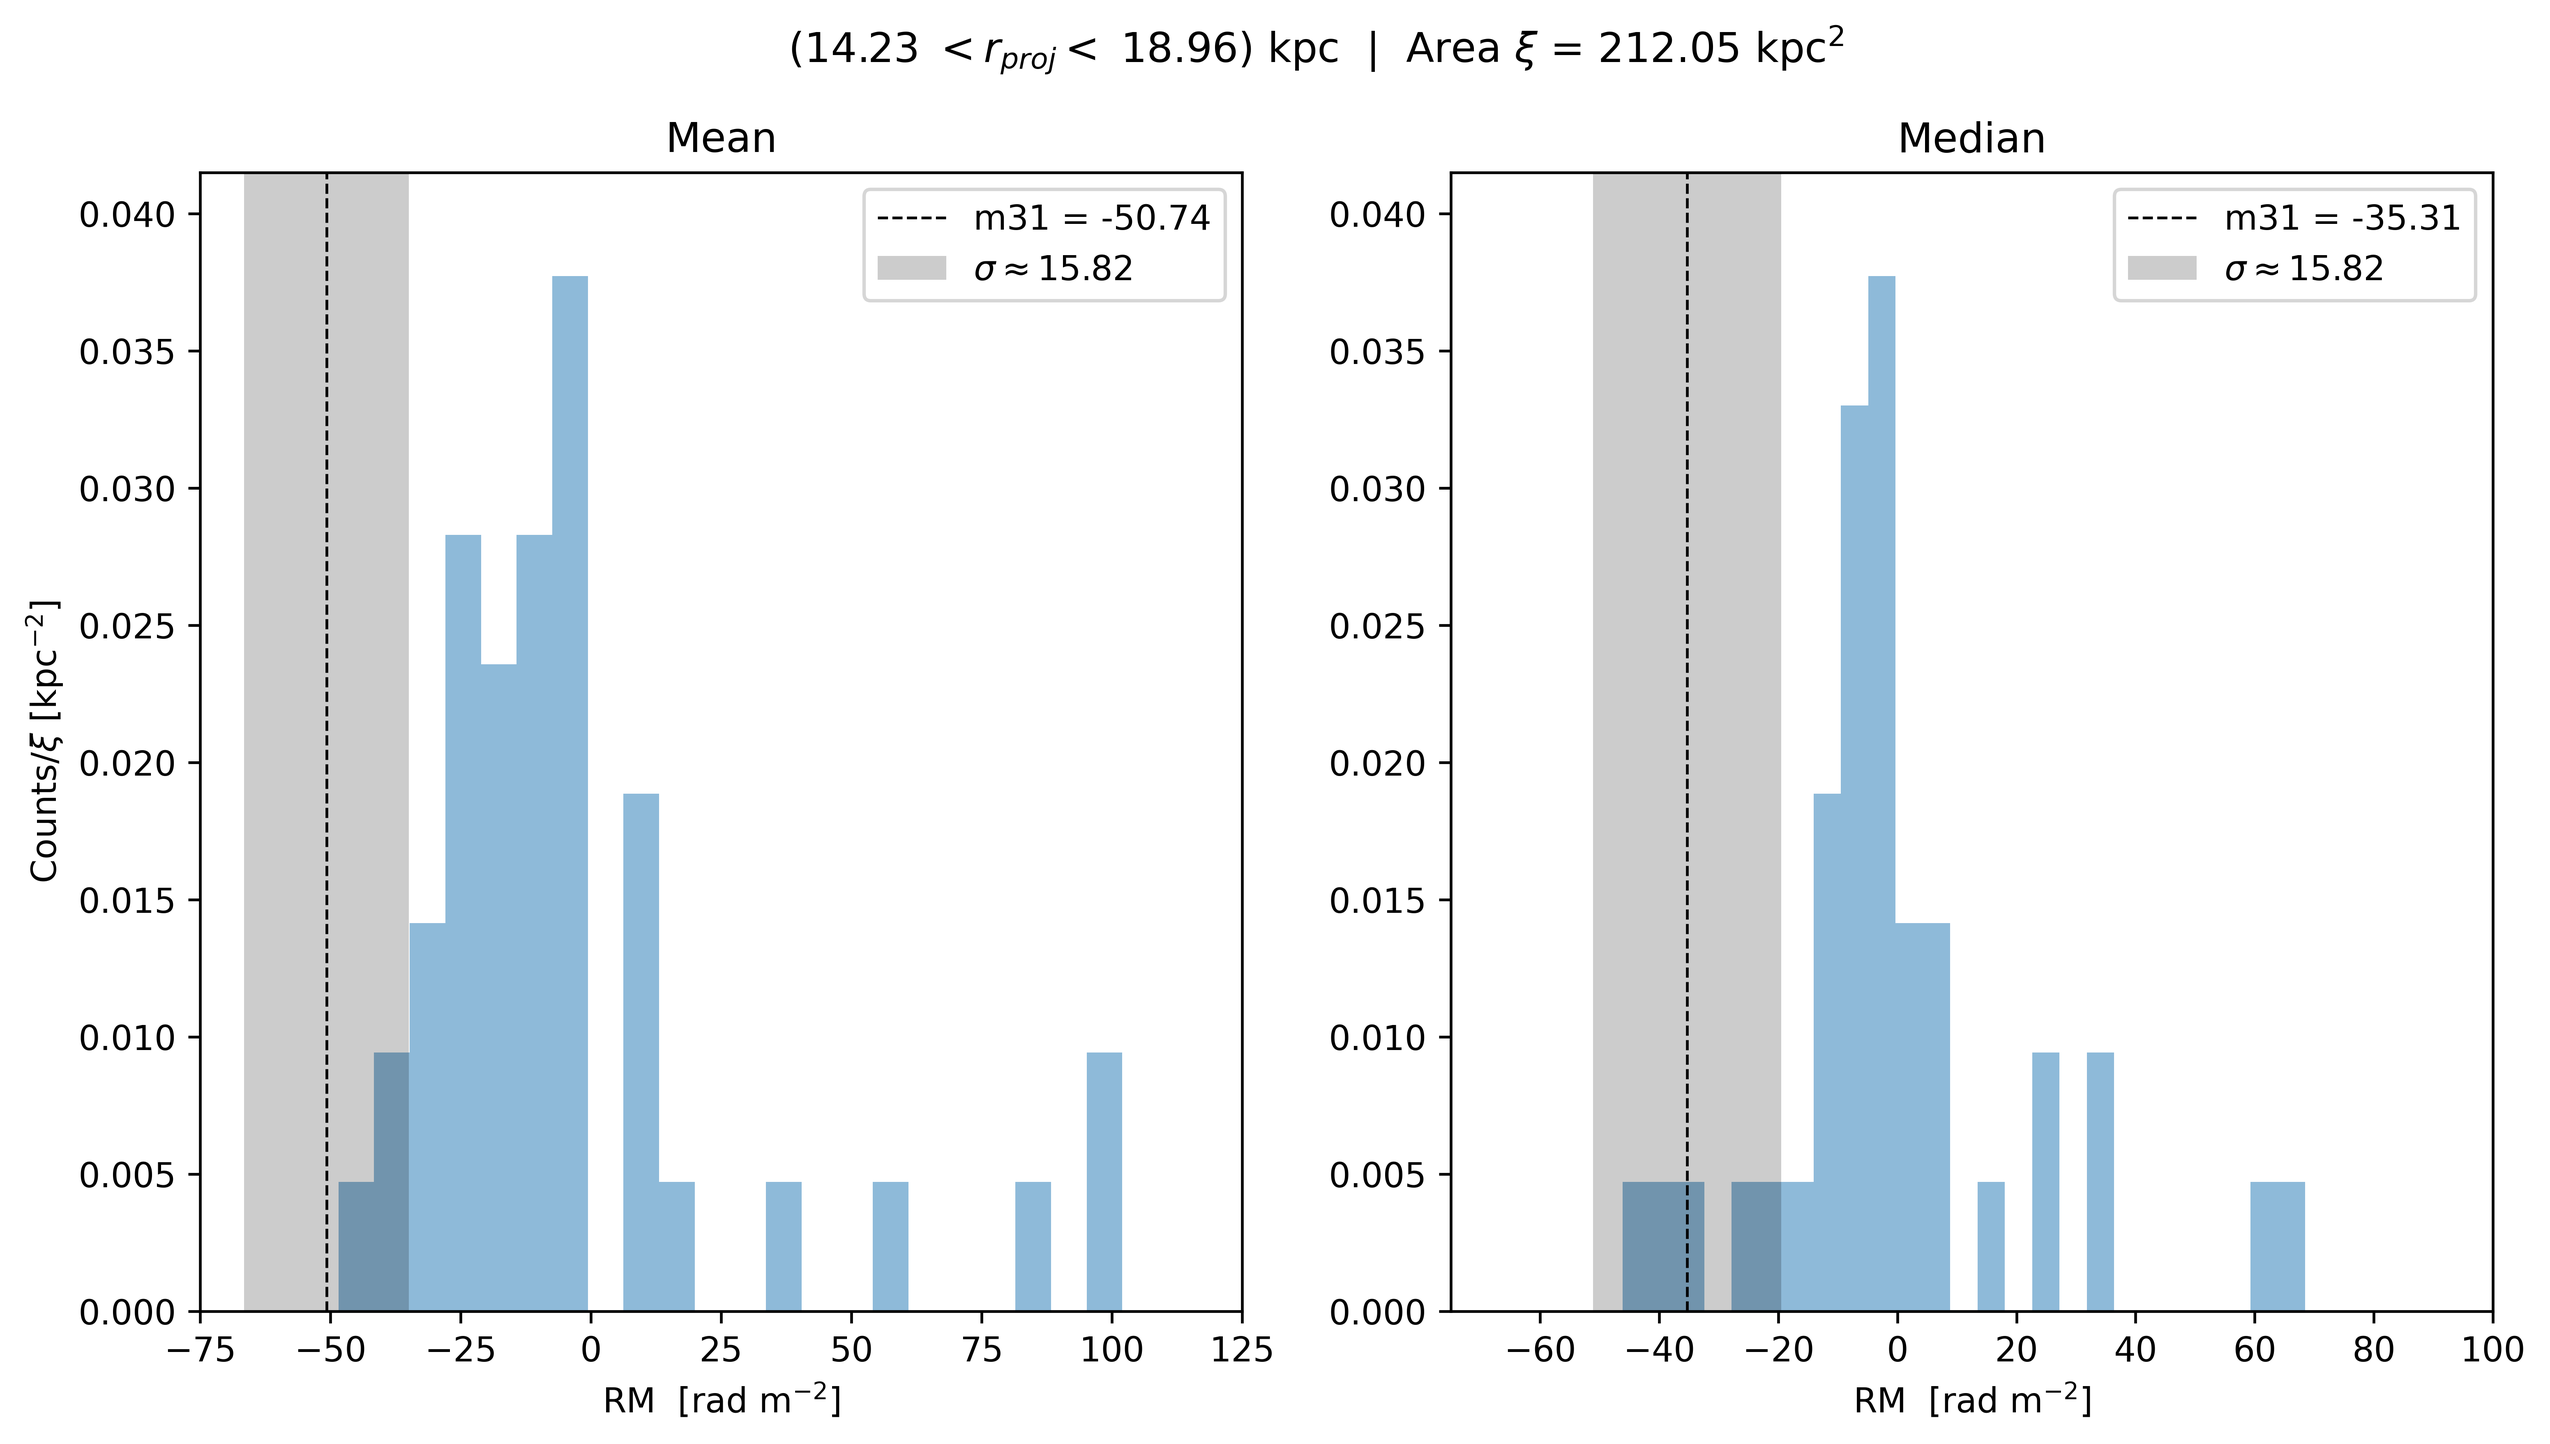
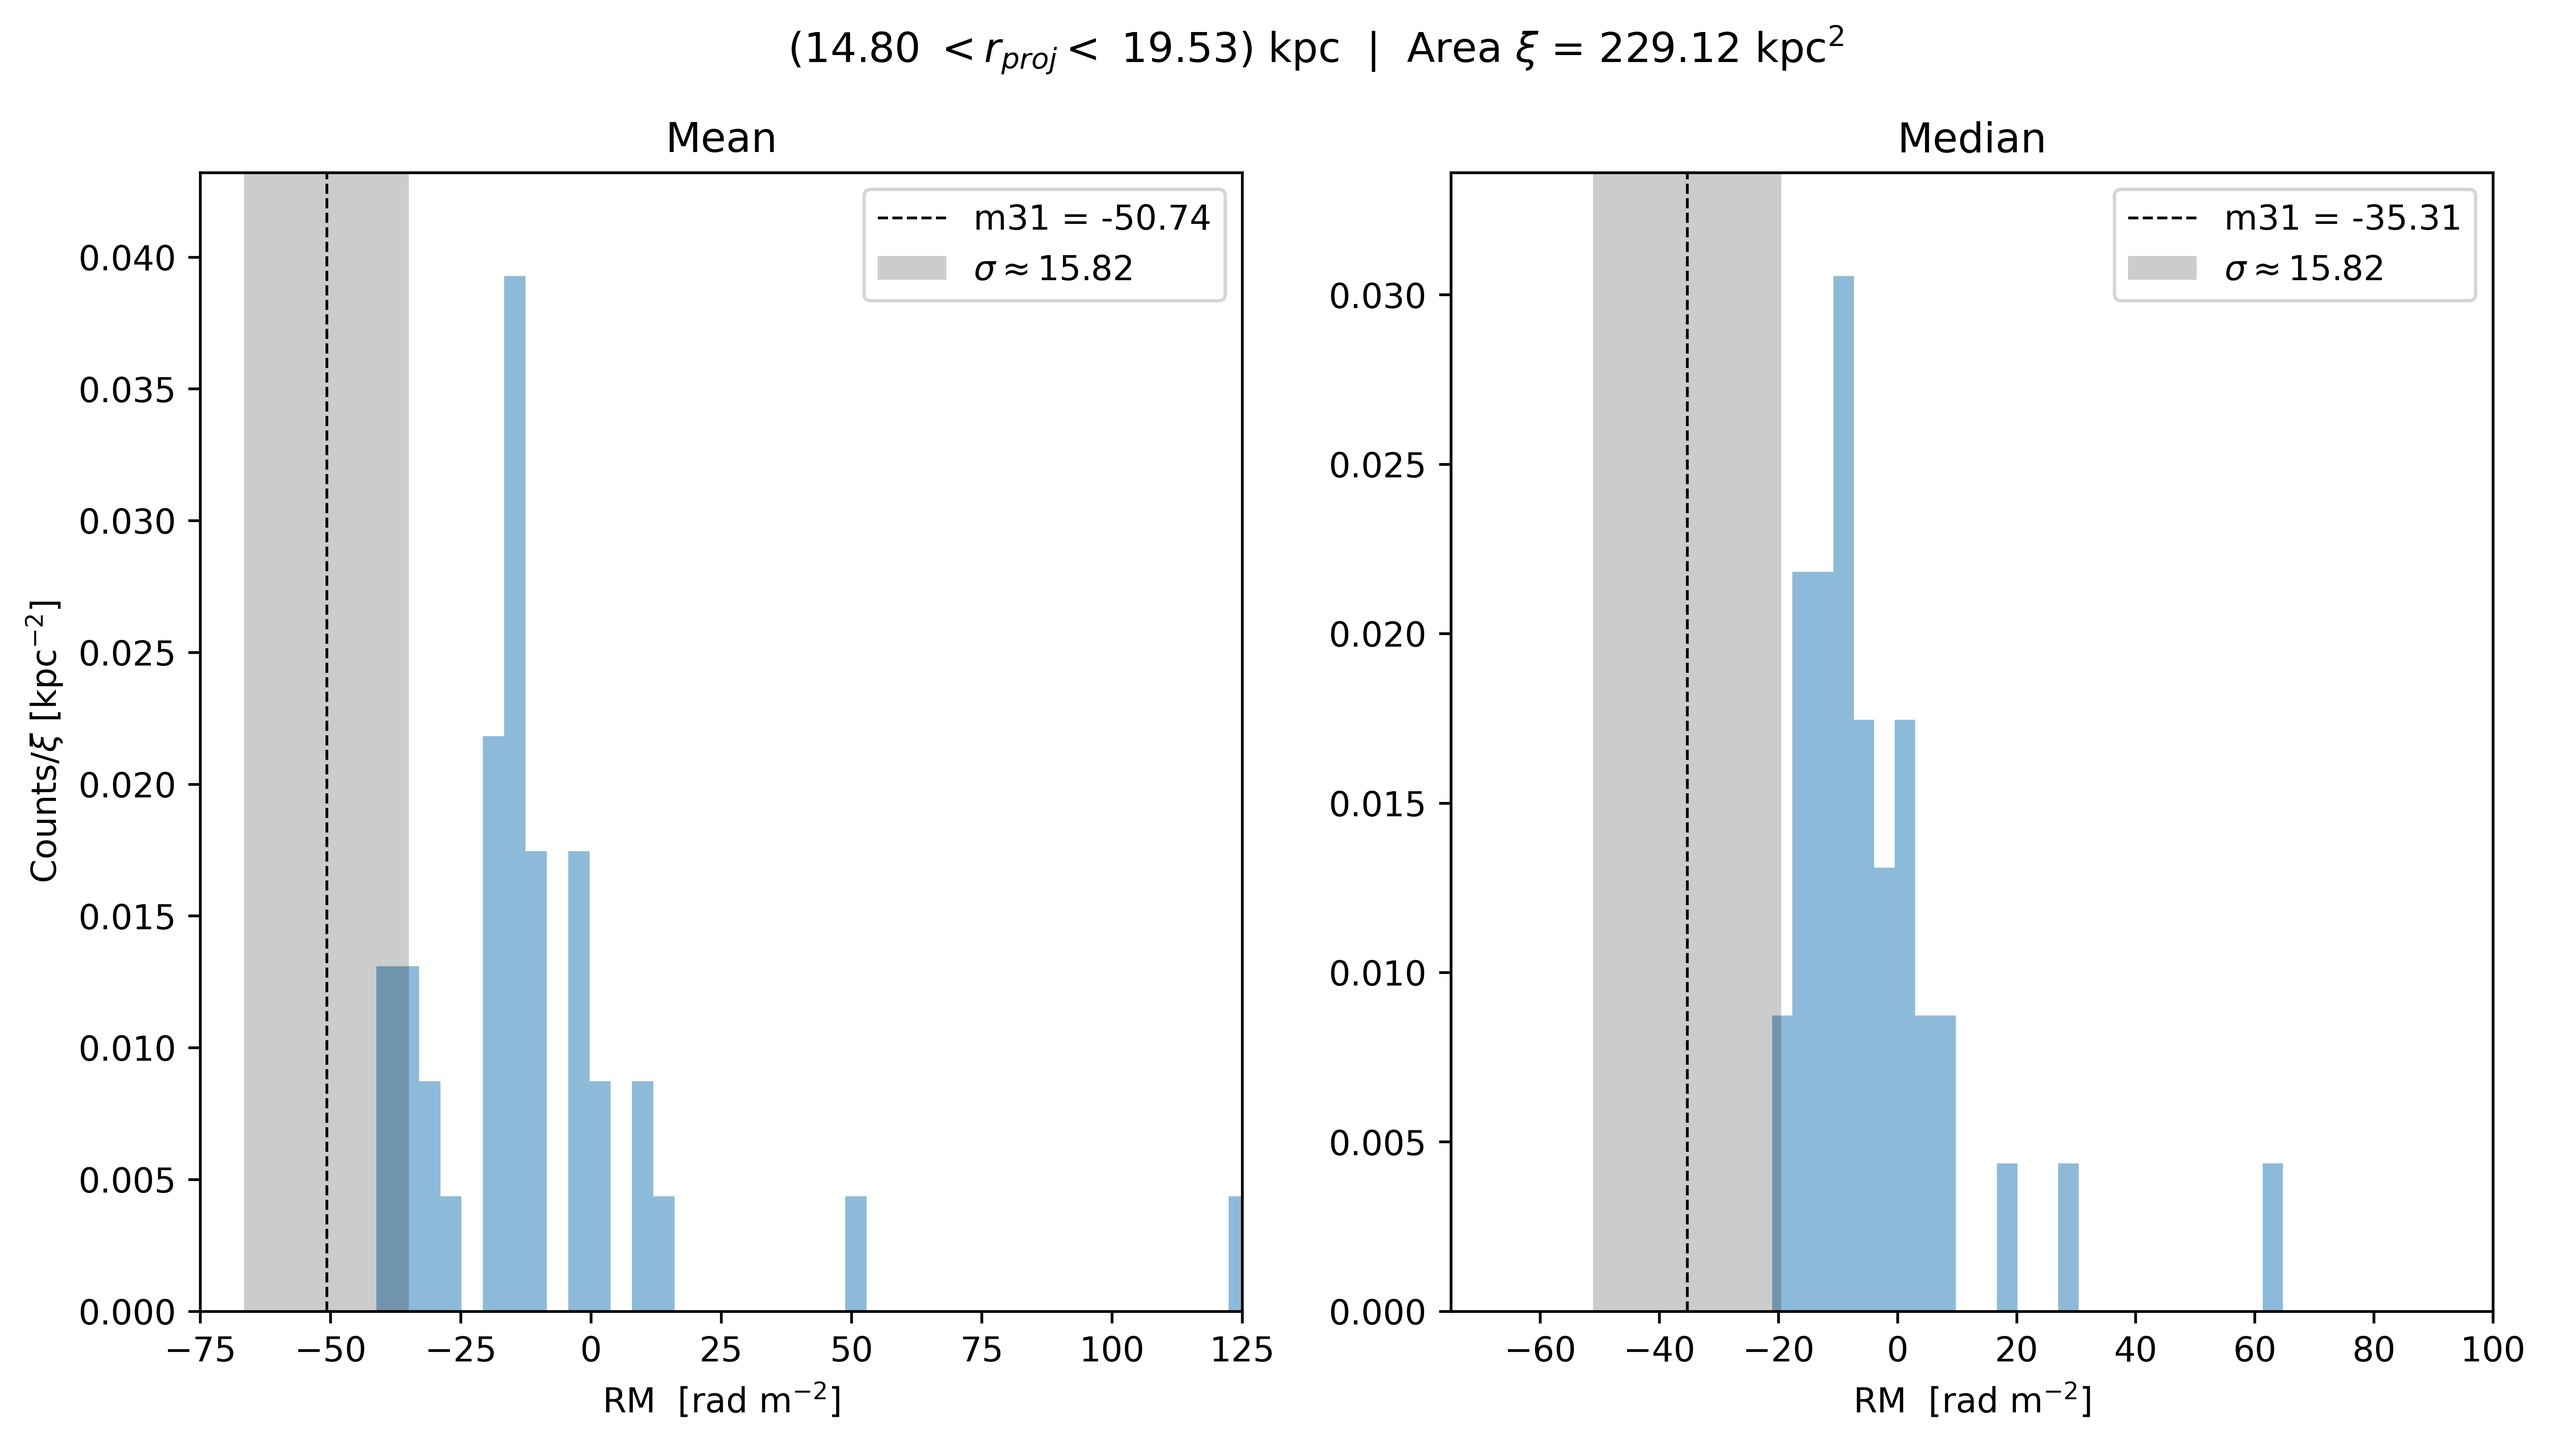
fixing conditions for overplot

diff --git a/M31_signal_vs_entire_sky.py b/M31_signal_vs_entire_sky.py
@@ -275,9 +275,11 @@ def annuli_analysis(save_plot=False, stack_indiv_patch=False):
         #Looping through annuli
         for bin_idx in annuli_to_plot:
 
-            if ~args.overplot: #Then plot individually
+            if not args.overplot: #Then plot individually
                 fig, axes = plt.subplots(1, 2, figsize=(12, 6))  #1x2 subplot grid
-            
+            else:#Crete a way to retirveing the highest count value
+                Counts = {"mean":[], "med":[]}
+                
             x_axis_label = r" [rad m$^{-2}$]"
             histbin = 50 #number of beans per histogram's RM-axis (x-axis)
             if bin_idx in rm_per_annulus_mean and bin_idx in rm_per_annulus_median:
@@ -292,7 +294,12 @@ def annuli_analysis(save_plot=False, stack_indiv_patch=False):
                 #dividing Counts of Mean by Annulus Area
                 for p in patches_mean: p.set_height(p.get_height() / annul_area)
                 counts /= annul_area
-                axes[0].set_ylim(0, np.max(counts) * 1.1)
+
+                if args.overplot: 
+                    Counts["mean"].append(np.max(counts))
+                else: 
+                    axes[0].set_ylim(0, np.max(counts) * 1.1)
+
                 # axes[0].set_ylim(*ylim)
                 axes[0].set_xlim(-75, 125)
                 
@@ -305,39 +312,49 @@ def annuli_analysis(save_plot=False, stack_indiv_patch=False):
                 #dividing Counts of Median by Annulus Area
                 for p in patches_med: p.set_height(p.get_height() / annul_area)
                 counts /= annul_area
-                axes[1].set_ylim(0, np.max(counts) * 1.1)
+
+                if args.overplot: 
+                    Counts["med"].append(np.max(counts))
+                else: 
+                    axes[1].set_ylim(0, np.max(counts) * 1.1)
+
                 # axes[1].set_ylim(*ylim)
                 axes[1].set_xlim(-75, 100)
 
-                #M31 relative annulus (mean RM)
-                axes[0].axvline(x=b_m_1[bin_idx-1], 
-                                label=f"m31 = {b_m_1[bin_idx-1]:.2f}", 
-                                color='k', linestyle='--', linewidth=.8)
-                axes[1].axvline(x=b_m_2[bin_idx-1], 
-                                label=f"m31 = {b_m_2[bin_idx-1]:.2f}", 
-                                color='k', linestyle='--', linewidth=.8)
+                if not args.overplot: #Add vertical line (and std) to individual histogram
+                    #M31 relative annulus (mean RM)
+                    axes[0].axvline(x=b_m_1[bin_idx-1], 
+                                    label=f"m31 = {b_m_1[bin_idx-1]:.2f}", 
+                                    color='k', linestyle='--', linewidth=.8)
+                    axes[1].axvline(x=b_m_2[bin_idx-1], 
+                                    label=f"m31 = {b_m_2[bin_idx-1]:.2f}", 
+                                    color='k', linestyle='--', linewidth=.8)
 
-                #Filling the region around the mean RM value within 1 sigma (mean RM)
-                axes[0].fill_betweenx(
-                    y=np.linspace(0, 100, 100),
-                    x1=(b_m_1[bin_idx-1] - std[bin_idx-1]),
-                    x2=(b_m_1[bin_idx-1] + std[bin_idx-1]),
-                    color='k', alpha=0.2, edgecolor="none",
-                    label=r"$\sigma \approx {:.2f}$".format(std[bin_idx-1])
-                )
-                #Filling the region around the median RM value within 1 sigma (median RM)
-                axes[1].fill_betweenx(
-                    y=np.linspace(0, 100, 100),
-                    x1=(b_m_2[bin_idx-1] - std[bin_idx-1]),
-                    x2=(b_m_2[bin_idx-1] + std[bin_idx-1]),
-                    color='k', alpha=0.2, edgecolor="none",
-                    label=r"$\sigma \approx {:.2f}$".format(std[bin_idx-1])
-                )
+                    #Filling the region around the mean RM value within 1 sigma (mean RM)
+                    axes[0].fill_betweenx(
+                        y=np.linspace(0, 100, 100),
+                        x1=(b_m_1[bin_idx-1] - std[bin_idx-1]),
+                        x2=(b_m_1[bin_idx-1] + std[bin_idx-1]),
+                        color='k', alpha=0.2, edgecolor="none",
+                        label=r"$\sigma \approx {:.2f}$".format(std[bin_idx-1])
+                    )
+                    #Filling the region around the median RM value within 1 sigma (median RM)
+                    axes[1].fill_betweenx(
+                        y=np.linspace(0, 100, 100),
+                        x1=(b_m_2[bin_idx-1] - std[bin_idx-1]),
+                        x2=(b_m_2[bin_idx-1] + std[bin_idx-1]),
+                        color='k', alpha=0.2, edgecolor="none",
+                        label=r"$\sigma \approx {:.2f}$".format(std[bin_idx-1])
+                    )
 
-                axes[0].legend(); axes[1].legend()
-                fig.suptitle(f" ({bin_edges[bin_idx-1]:.2f}" + r" $< r_{proj} <$ " + f"{bin_edges[bin_idx]:.2f}) {annul_dist_type}" + r"  |  Area $\xi$" + f" = {annul_area:.2f} " + f"{annul_dist_type}" r"$^2$")
+                    axes[0].legend(); axes[1].legend()
                 
-                if ~args.overplot: #Then plot individually
+                if not args.overplot:
+                    fig.suptitle(f" ({bin_edges[bin_idx-1]:.2f}" + r" $< r_{proj} <$ " + f"{bin_edges[bin_idx]:.2f}) {annul_dist_type}" + r"  |  Area $\xi$" + f" = {annul_area:.2f} " + f"{annul_dist_type}" r"$^2$")
+                else:
+                    fig.suptitle(r"Discrete Annulus Area $\xi$" + f" = {annul_area:.2f} " + f"{annul_dist_type}" r"$^2$")
+
+                if not args.overplot: #Then plot individually
                     #Saving or displaying
                     if save_plot:
                         path = curr_dir_path() + "Results/"
@@ -346,14 +363,19 @@ def annuli_analysis(save_plot=False, stack_indiv_patch=False):
                     else:
                         plt.show()
 
-                if bin_idx == 3: break #Testing out one (or a few) plots
+                # if bin_idx == 3: break #Testing out one (or a few) plots
 
         if args.overplot:
-            if save_plot:#Finally Saving the overplots:
-                path = curr_dir_path() + "Results/"
-                plt.savefig(f"{path}annuli_overplot.png", dpi=600, bbox_inches="tight")
-            else:
-                plt.show() #Otherwise show the overplot
+
+            #Give correct y-axis limits from maximum histogram
+                axes[0].set_ylim(0, max(Counts["mean"])* 1.1)
+                axes[1].set_ylim(0, max(Counts["med"])* 1.1)
+
+        if save_plot:#Finally Saving the overplots
+            path = curr_dir_path() + "Results/"
+            plt.savefig(f"{path}annuli_overplot.png", dpi=600, bbox_inches="tight")
+        else:
+            plt.show() #Otherwise show the overplot
 
         if save_plot: #Since its not easy to make plots interactively on ilifu
             plt.close()  #Deleting the figure to clear memory
@@ -652,7 +674,7 @@ def indiv_bg_corr(arr, bin_cent, absol=True):
 patch_size = 30 #in degrees (same as M31 Virial Radius)
 
 """IMPORTANT"""
-number_of_patches = int(6e1) #Creating laaaarge nubmer of patches (choose smaller vlue if you only want to see output features)
+number_of_patches = int(1e4) #Creating laaaarge nubmer of patches (choose smaller vlue if you only want to see output features)
 
 
 BINS = 50
